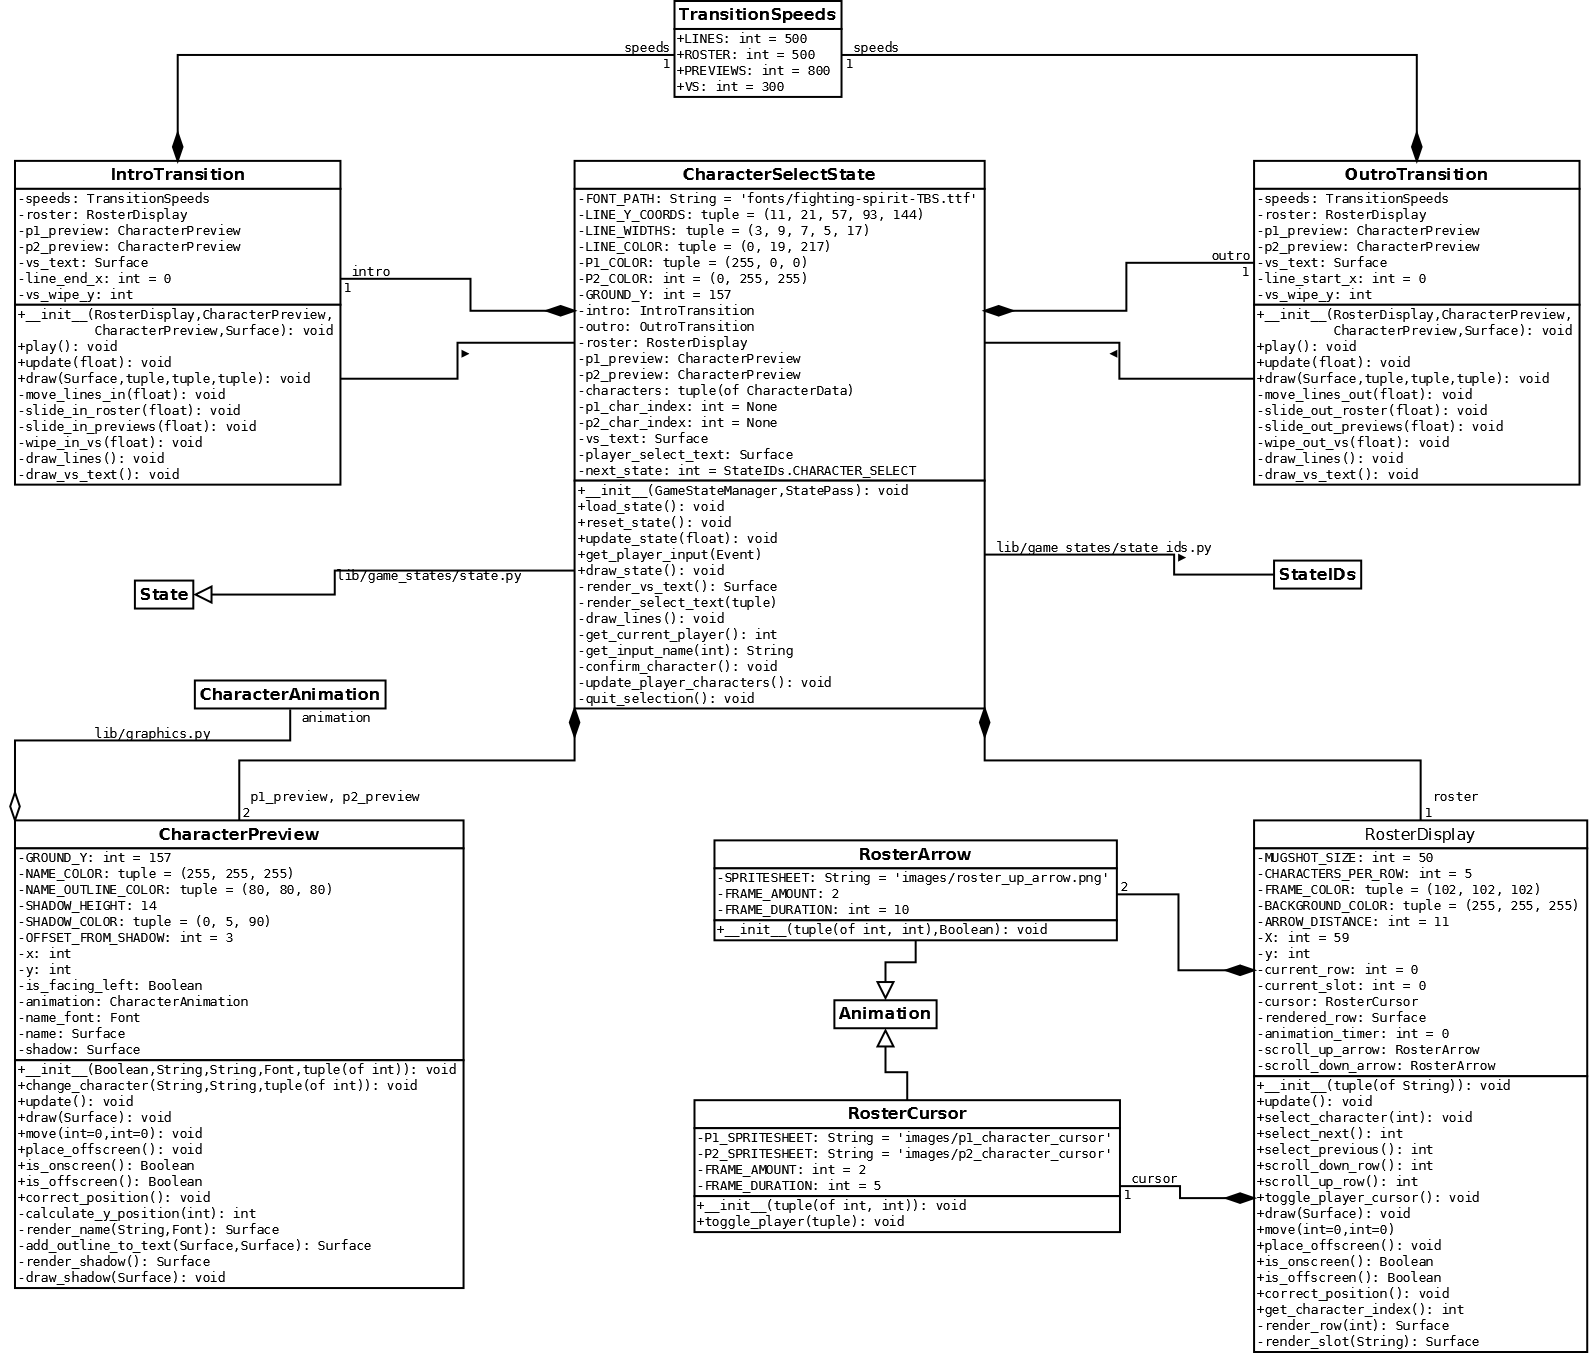
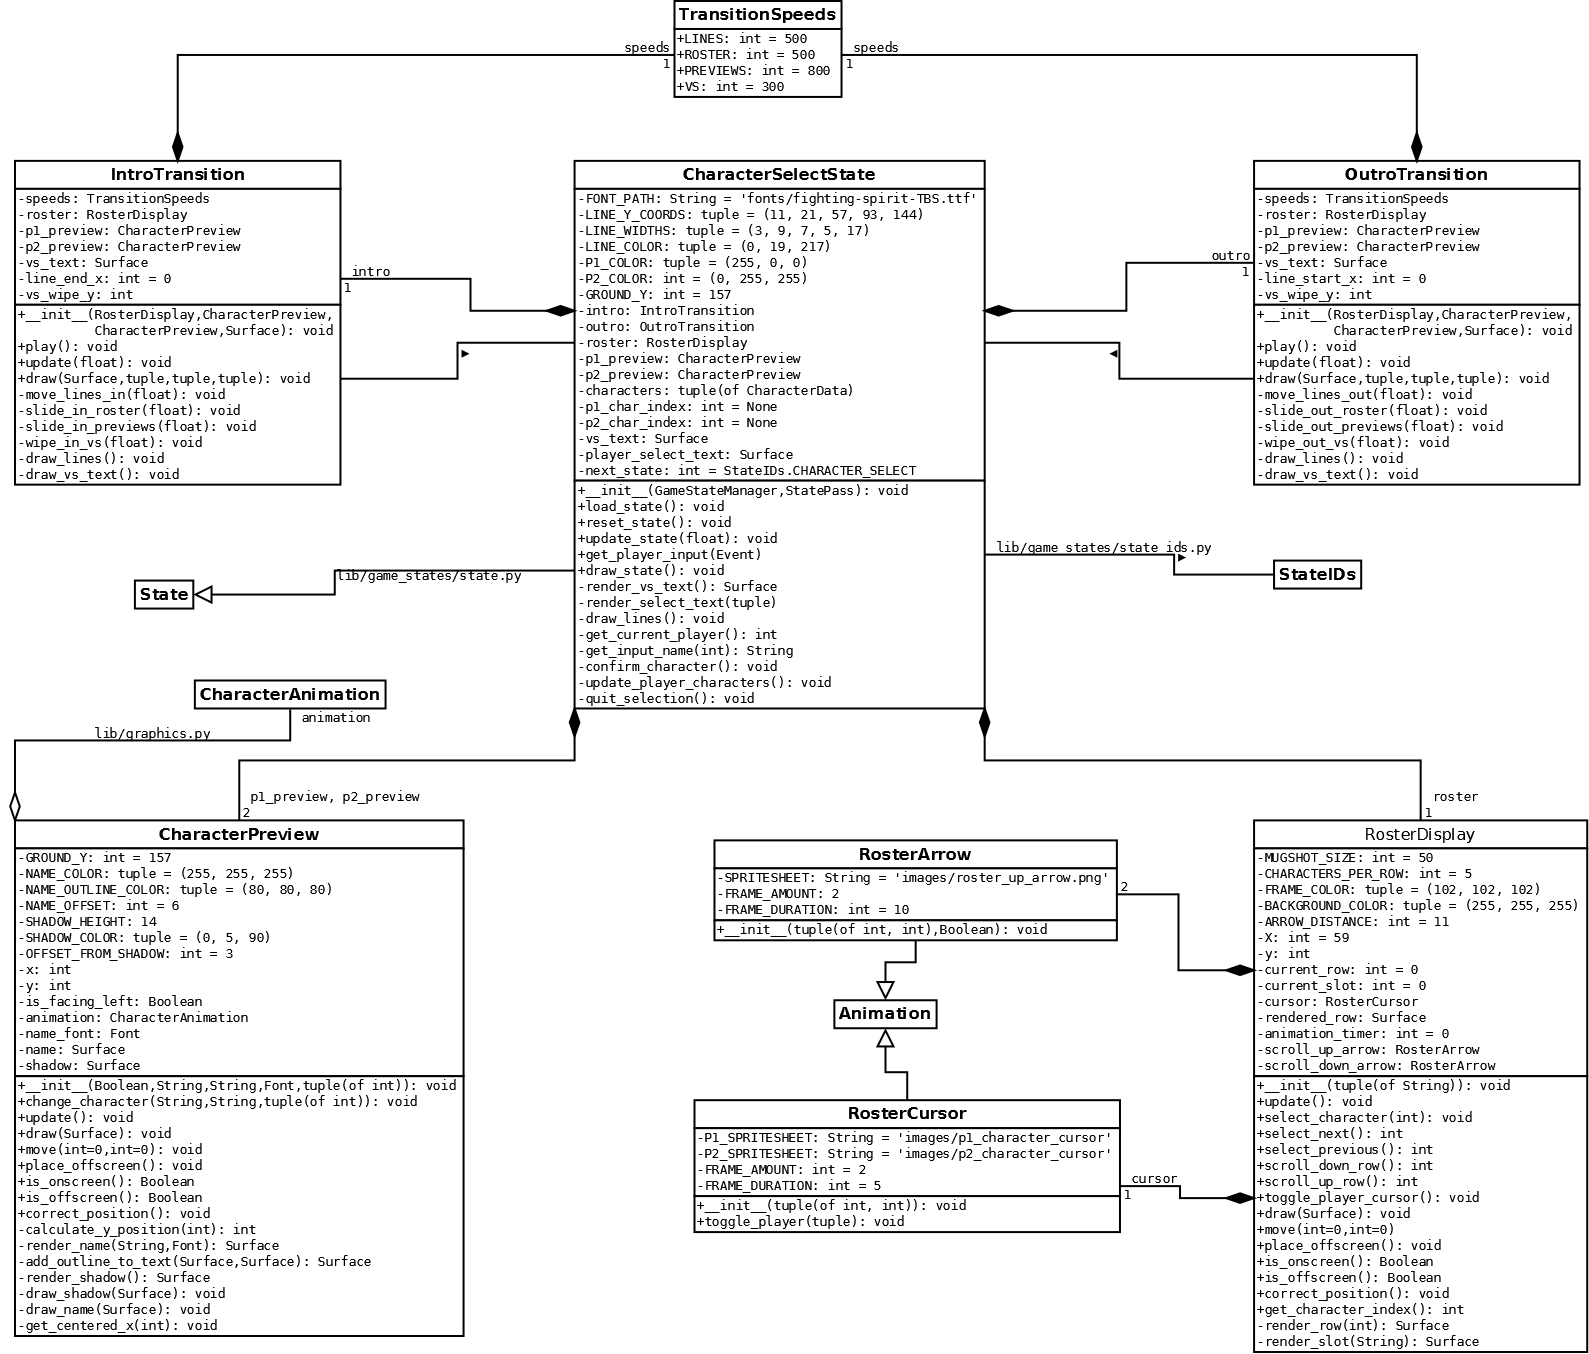
CharacterPreview: Add draw_name() + centering

Changed region(s): [[0.0, 0.6514, 0.3084, 0.9926]]

diff --git a/lib/game_states/character_select_state.py b/lib/game_states/character_select_state.py
@@ -19,6 +19,8 @@ class CharacterPreview(object):
             text's color.
         NAME_OUTLINE_COLOR: A tuple containing the RGB values for the
             color of the name text's outline.
+        NAME_OFFSET: An integer for the vertical shift up, in pixels,
+            of the name text from the bottom of the character sprite.
         SHADOW_HEIGHT: An integer for the height of the shadow, in
             pixels.
         SHADOW_COLOR: A tuple containing the RGB values for the color
@@ -44,6 +46,7 @@ class CharacterPreview(object):
     GROUND_Y = 157
     NAME_COLOR = (255, 255, 255)
     NAME_OUTLINE_COLOR = (80, 80, 80)
+    NAME_OFFSET = 6
     SHADOW_HEIGHT = 14
     SHADOW_COLOR = (0, 5, 90)
     OFFSET_FROM_SHADOW = 3
@@ -199,6 +202,34 @@ class CharacterPreview(object):
         char_bottom = self.y + self.animation.get_height()
         y = char_bottom - self.shadow.get_height() + self.OFFSET_FROM_SHADOW
         parent_surf.blit(self.shadow, (self.x, y))
+
+    def draw_name(self, parent_surf):
+        """Draw the character's name at the bottom of their sprite.
+
+        Args:
+            parent_surf: The Surface upon which the name will be drawn.
+        """
+        if self.name.get_width() < self.animation.get_width():
+            x = self.get_centered_x(self.name.get_width())
+        elif self.is_facing_left:
+            x = self.x + self.animation.get_width() - self.name.get_width()
+        else:
+            x = self.x
+        y = self.y + self.animation.get_height() - self.NAME_OFFSET
+        parent_surf.blit(self.name, (x, y))
+
+    def get_centered_x(self, width):
+        """Calculate an x-value that would allow a Surface of a given
+        width to be centered relative to the character sprite.
+
+        Note that this only works with Surfaces that have a smaller
+        width than the character.
+
+        Args:
+            width: An integer for the width of a Surface.
+        """
+        surface_difference = self.animation.get_width() - width
+        return self.x + int(surface_difference / 2)
 
     def move(self, dx=0, dy=0):
         """Move the animation around the screen space.
